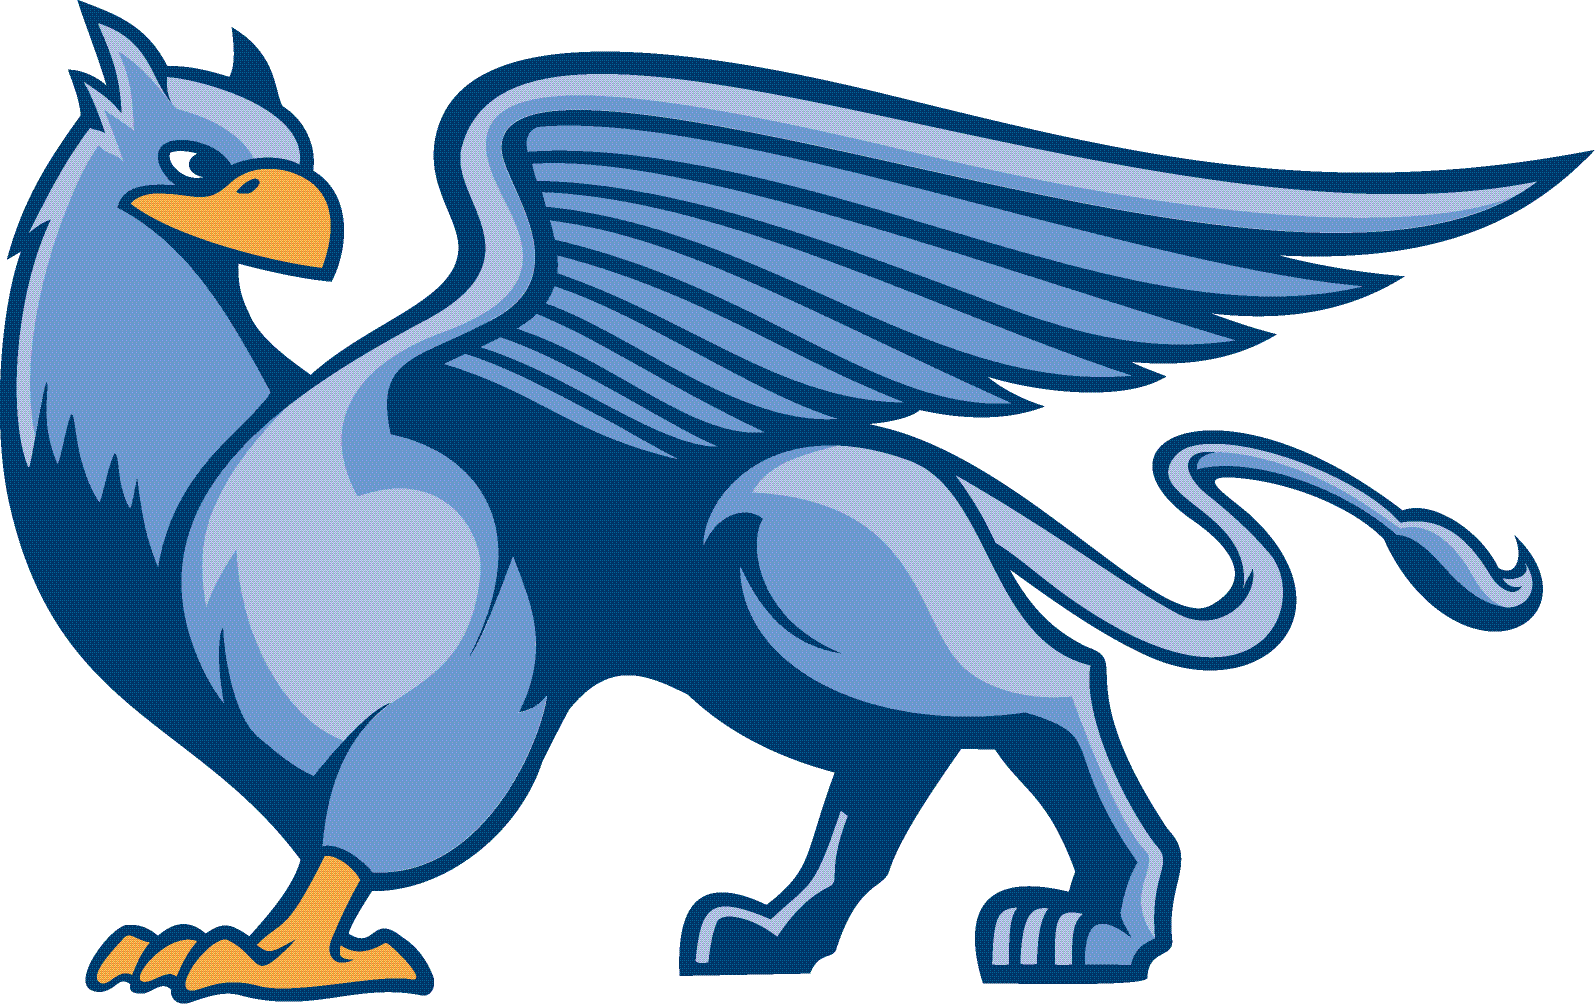
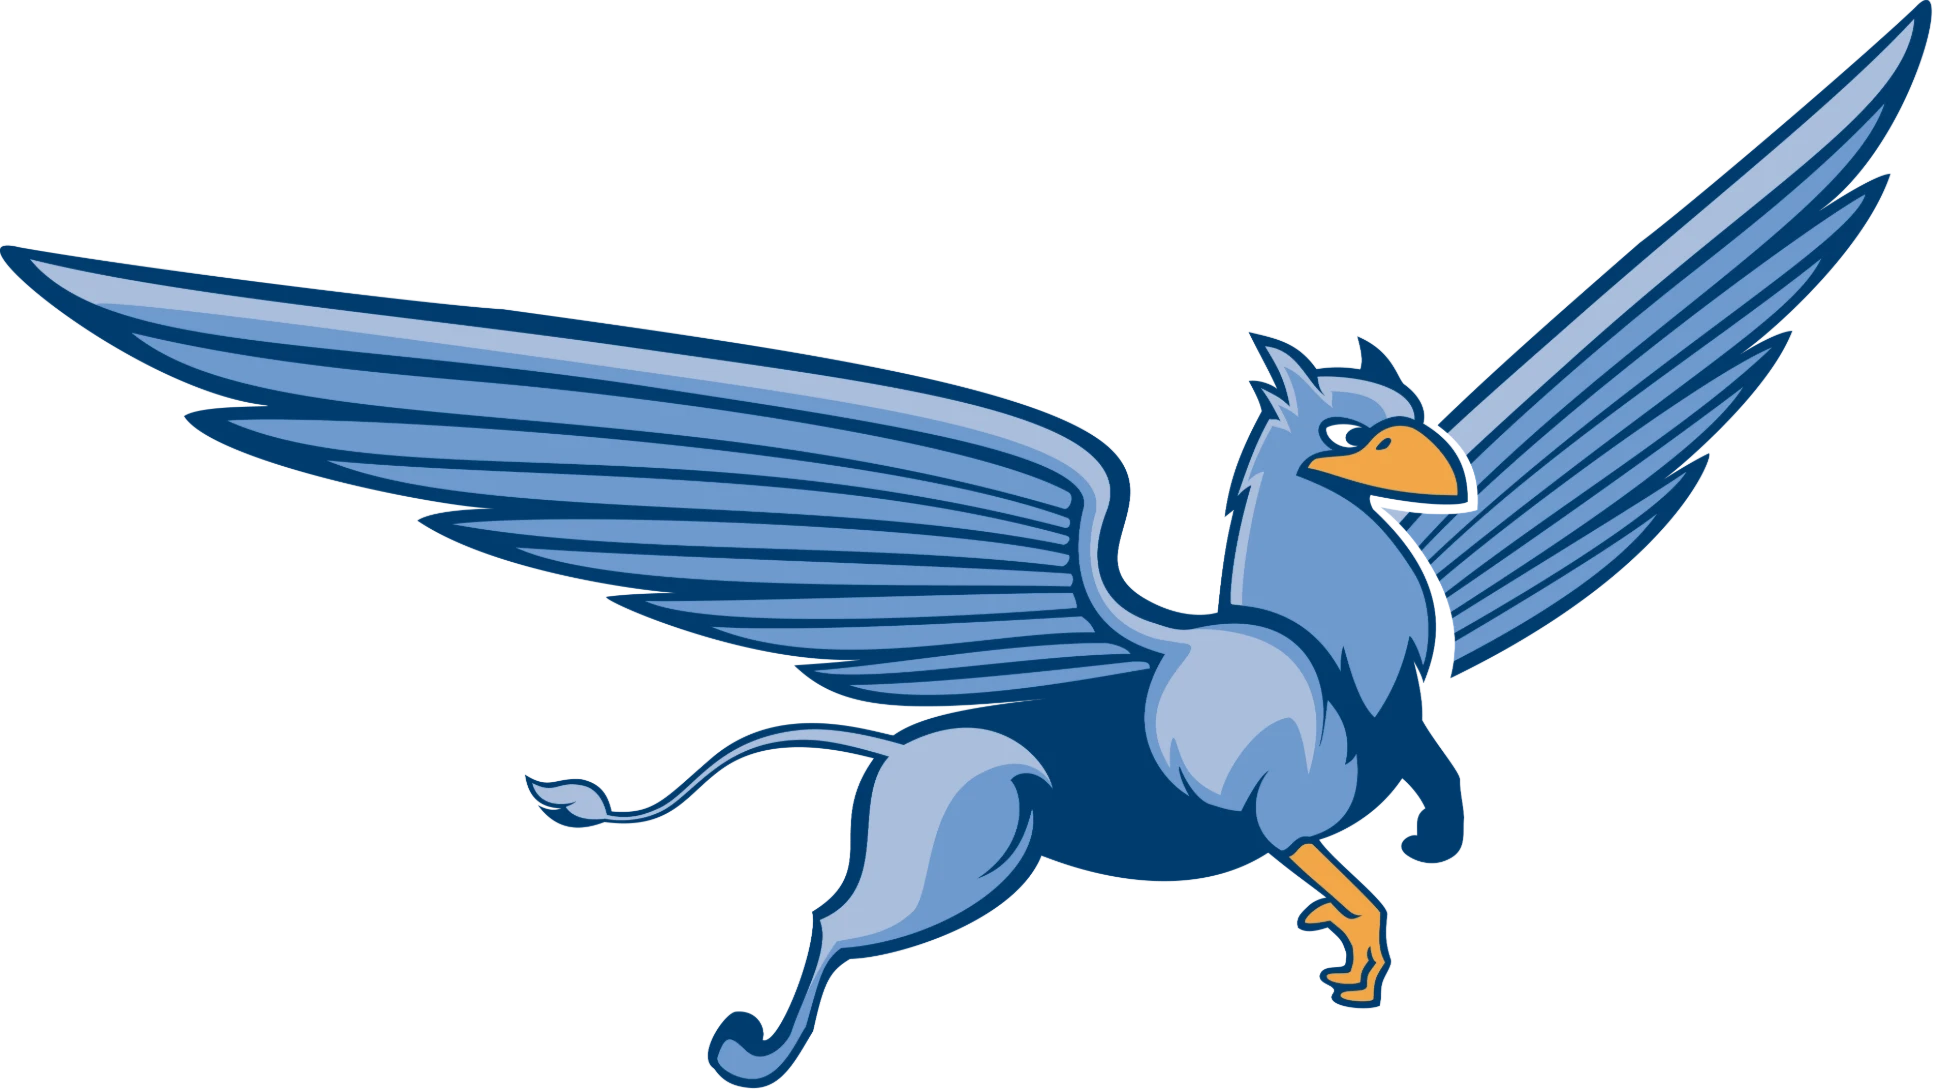
Shout-outs badge → flying griffin; trim & deep-link dashboard quick actions
- Swap the griffin for the owner's official flying mascot (public/griffin.png)
  and rebuild the megaphone+griffin header badge (public/shoutout-griffin.png).
- Quick actions: drop tiles that merely duplicate a one-click sidebar
  destination (Resources, Approvals, Roster, Reports, Settings, Shout-outs).
  The ones kept now deep-link to reduce clicks: Log PD and Set a goal open
  their form (?new=1), Request funding opens the funding form
  (?tab=funding&new=1); pd-log and goals honor those params.

diff --git a/app/dashboard/page.tsx b/app/dashboard/page.tsx
@@ -179,21 +179,19 @@ function ActionTile({ href, icon, label, desc }: { href: string; icon: string; l
   )
 }
 
+// Quick actions earn a tile only when they reduce clicks or surface a feature
+// that isn't a one-click sidebar destination — so no plain duplicates of the
+// sidebar (Resources, Approvals, Roster, Reports, Settings, Shout-outs). The
+// ?new / ?tab deep-links open a form or sub-view the sidebar can't reach directly.
 interface DashAction { href: string; icon: string; label: string; desc: string; roles: string[] }
 const DASH_ACTIONS: DashAction[] = [
-  { href: '/dashboard/pd-log', icon: '📝', label: 'Log PD', desc: 'Record a workshop, course, or activity', roles: ['staff', 'supervisor', 'admin'] },
+  { href: '/dashboard/pd-log?new=1', icon: '📝', label: 'Log PD', desc: 'Record a workshop, course, or activity', roles: ['staff', 'supervisor', 'admin'] },
   { href: '/dashboard/observations/peer', icon: '💬', label: 'Give peer feedback', desc: 'A quick, collegial note to a colleague', roles: ['staff', 'supervisor', 'admin'] },
-  { href: '/dashboard/goals', icon: '🎯', label: 'Set a goal', desc: 'Start or update a growth goal', roles: ['staff', 'supervisor', 'admin'] },
-  { href: '/dashboard/pd-log?tab=funding', icon: '💵', label: 'Request funding', desc: 'Submit a PD funding request', roles: ['staff', 'supervisor', 'admin'] },
-  { href: '/dashboard/shout-outs', icon: '📣', label: 'Give a shout-out', desc: 'Recognize a colleague', roles: ['staff', 'supervisor', 'admin'] },
-  { href: '/dashboard/resources', icon: '📚', label: 'Browse resources', desc: 'Find shared PD resources', roles: ['staff', 'supervisor', 'admin'] },
-  { href: '/dashboard/approvals', icon: '✅', label: 'Review approvals', desc: 'Decide pending funding requests', roles: ['supervisor', 'admin'] },
+  { href: '/dashboard/goals?new=1', icon: '🎯', label: 'Set a goal', desc: 'Start a new growth or inquiry goal', roles: ['staff', 'supervisor', 'admin'] },
+  { href: '/dashboard/pd-log?tab=funding&new=1', icon: '💵', label: 'Request funding', desc: 'Submit a PD funding request', roles: ['staff', 'supervisor', 'admin'] },
   { href: '/dashboard/observations/twg', icon: '👁', label: 'Record an observation', desc: 'Teaching with Grace capture', roles: ['supervisor', 'admin'] },
-  { href: '/dashboard/goals?tab=team', icon: '👥', label: "Team goals", desc: "Your team's growth goals", roles: ['supervisor', 'admin'] },
+  { href: '/dashboard/goals?tab=team', icon: '👥', label: 'Team goals', desc: "Your team's growth goals", roles: ['supervisor', 'admin'] },
   { href: '/dashboard/observations?tab=pending', icon: '✍', label: 'Sign off observations', desc: 'Review and sign pending observations', roles: ['supervisor', 'admin'] },
-  { href: '/dashboard/admin/staff', icon: '📋', label: 'Roster', desc: 'Manage staff and roles', roles: ['admin'] },
-  { href: '/dashboard/admin/reports', icon: '📊', label: 'Reports', desc: 'Build and export reports', roles: ['admin'] },
-  { href: '/dashboard/admin/settings', icon: '⚙', label: 'Settings', desc: 'Platform configuration', roles: ['admin'] },
 ]
 
 function ProgressBar({ pct }: { pct: number }) {

diff --git a/app/dashboard/pd-log/page.tsx b/app/dashboard/pd-log/page.tsx
@@ -98,6 +98,15 @@ export default function PdLogPage() {
     load()
   }, [load])
 
+  // Deep-link from the dashboard quick actions: ?new=1 opens the matching form.
+  useEffect(() => {
+    const p = new URLSearchParams(window.location.search)
+    if (p.get('new') === '1') {
+      if (p.get('tab') === 'funding') setShowFundingForm(true)
+      else setShowActivityForm(true)
+    }
+  }, [])
+
   const handleLogActivity = async (e: React.FormEvent) => {
     e.preventDefault()
     if (!userId) return

diff --git a/app/dashboard/goals/page.tsx b/app/dashboard/goals/page.tsx
@@ -513,6 +513,11 @@ export default function GoalsPage() {
     loadGoals()
   }, [loadGoals])
 
+  // Deep-link from the dashboard "Set a goal" quick action: ?new=1 opens the form.
+  useEffect(() => {
+    if (new URLSearchParams(window.location.search).get('new') === '1') setShowForm(true)
+  }, [])
+
   const handleCreate = async (data: Partial<Goal>, collaborators: Profile[]) => {
     if (!userId) return
     setSaveError(null)

diff --git a/app/dashboard/shout-outs/page.tsx b/app/dashboard/shout-outs/page.tsx
@@ -246,8 +246,8 @@ export default function SpotlightsPage() {
         <Image
           src="/shoutout-griffin.png"
           alt="Grace griffin shouting out of a megaphone"
-          width={723}
-          height={273}
+          width={1025}
+          height={440}
           priority
           className="h-16 w-auto shrink-0"
         />
